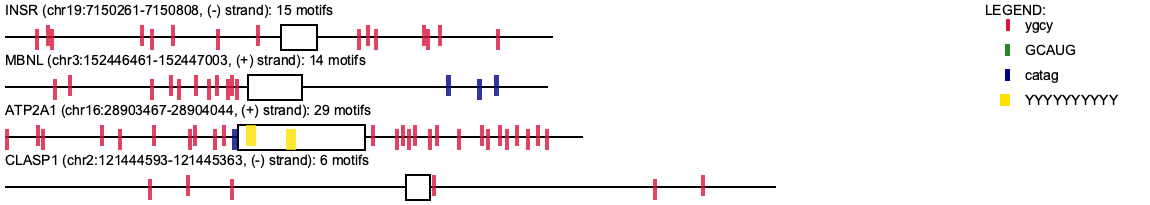
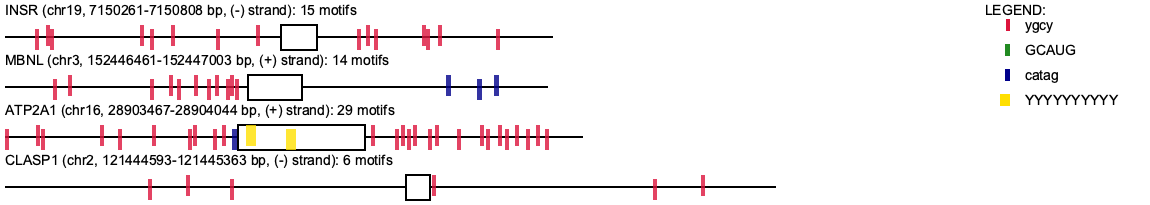
20250306

diff --git a/motif-mark-oop.py b/motif-mark-oop.py
@@ -212,7 +212,7 @@ class Record():
         self.gname = gname                          # name of gene
         self.lines = self.get_lines()
         self.motifs = self.find_motifs(motifs)      # list of motif objects
-        self.title = f'{gname} ({chrom}:{pos}, ({self.strand}) strand): {len(self.motifs)} motifs'
+        self.title = f'{gname} ({chrom}, {pos} bp, ({self.strand}) strand): {len(self.motifs)} motifs'
         # self.title = f'{header}'
 
     def __str__(self):
